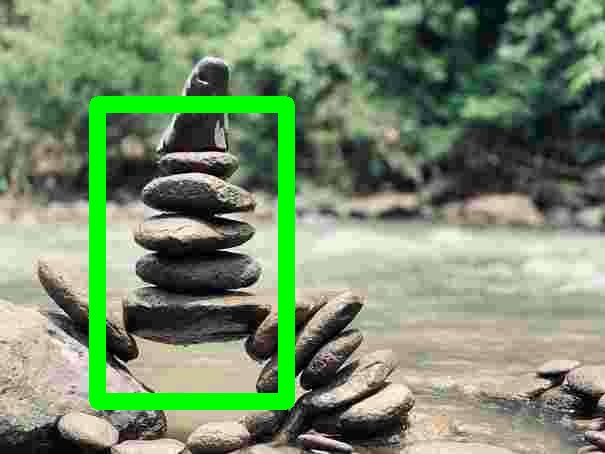
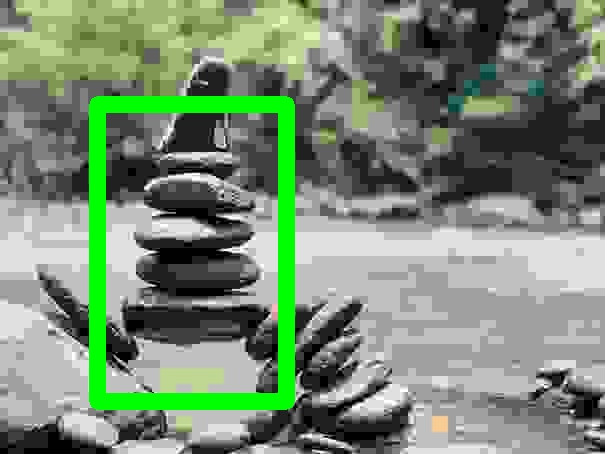
Readjusted default values

diff --git a/src/discolight/augmentations/imagecompression.py b/src/discolight/augmentations/imagecompression.py
@@ -31,7 +31,7 @@ class ImageCompression(ColorAugmentation):
             "strength",
             "Compression strength between 0 to 100",
             BoundedNumber(int, 0, 100),
-            10,
+            1,
         )
 
     def augment_img(self, img, _bboxes):

diff --git a/doc/discolight.md b/doc/discolight.md
@@ -401,7 +401,7 @@ The probability that this augmentation will be applied
 
 
 
-**strength** *(int in range \[0, 100\])* = 10<br/>
+**strength** *(int in range \[0, 100\])* = 1<br/>
 Compression strength between 0 to 100
 
 
